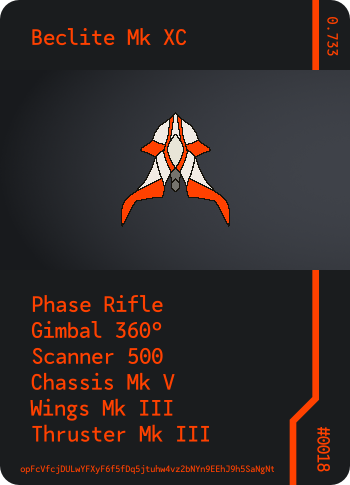
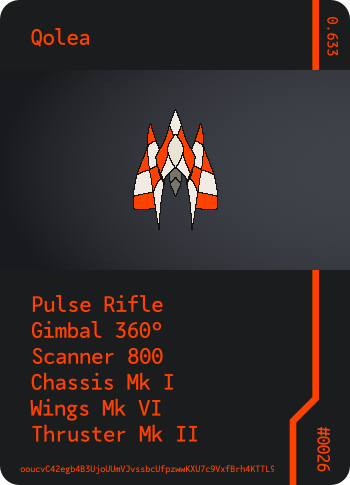
latest

diff --git a/index.js b/index.js
@@ -296,9 +296,7 @@ const makeTweet = (walletId, seed, squadron, edition) => {
     return `{link}\n\n${title}\n---\n${text}\n\n${tags}\n`;
 };
 
-async function generateAllSquadrons(seeds, name, statsOnly = false) {
-    const allDrones = [];
-    let allSquads = [];
+async function generateAllSquadrons(seeds) {
     const cardOutPath = path.join('out', 'cards');
     makeDir(cardOutPath);
     for(let i = 0; i < seeds.length; i++) {
@@ -309,53 +307,47 @@ async function generateAllSquadrons(seeds, name, statsOnly = false) {
         const dataPath = path.join(playerDronesPath, 'squadron.json');
         const colour = ~~(Math.random() * 6);
         const drones = generateDroneStats(colour);
-        if(!statsOnly) {
-            await generateDroneCards(cardOutPath, drones, seed, edition);
-            const cards = await generateThumb(cardOutPath, seed, colour, edition);
-            for(let j = 0; j < cards.length; j++) {
-                await generateUvMap(colour, cards[j], j);
-            }
+        await generateDroneCards(cardOutPath, drones, seed, edition);
+        const cards = await generateThumb(cardOutPath, seed, colour, edition);
+        for(let j = 0; j < cards.length; j++) {
+            await generateUvMap(colour, cards[j], j);
         }
         const squadron = createSquadronData(i, seed, drones, colour);
-        if(!statsOnly) {
-            fs.writeFileSync(dataPath, JSON.stringify(squadron));
-            fs.writeFileSync(path.join(finalPath, `${edition}_text_${seed}.txt`),
-                makeText(walletId, seed, squadron, edition));
-            fs.writeFileSync(path.join(finalPath, `${edition}_tweet_${seed}.txt`),
-                makeTweet(walletId, seed, squadron, edition));
-            fs.writeFileSync(path.join(finalPath, `${edition}_discord_${seed}.txt`),
-                makeDiscord(walletId, seed, squadron, edition));
-        }
-
-        allDrones.push(...squadron.drones);
-        allSquads.push(squadron);
+        fs.writeFileSync(dataPath, JSON.stringify(squadron));
+        fs.writeFileSync(path.join(finalPath, `${edition}_text_${seed}.txt`),
+            makeText(walletId, seed, squadron, edition));
+        fs.writeFileSync(path.join(finalPath, `${edition}_tweet_${seed}.txt`),
+            makeTweet(walletId, seed, squadron, edition));
+        fs.writeFileSync(path.join(finalPath, `${edition}_discord_${seed}.txt`),
+            makeDiscord(walletId, seed, squadron, edition));
 
         await copySrc(seed, edition);
     }
-    if(statsOnly) {
-        await new ObjectsToCsv(allDrones).toDisk(path.join(csvPath, `drones.csv`), {append: false});
-        await new ObjectsToCsv(allSquads).toDisk(path.join(csvPath, `squads.csv`), {append: false});
-    }
-    fs.writeFileSync(path.join(playerDronesPath, `${name}-queue.js`),
-        `const ${name}Queue = ${JSON.stringify(allSquads
-            .sort((a, b) => a.value - b.value)
-            .map(s => ({id: s.id, seed: s.seed, value: s.value, leader: s.leader})),
-        )};
-    export default ${name}Queue;`);
+    // fs.writeFileSync(path.join(playerDronesPath, `${name}-queue.js`),
+    //     `const ${name}Queue = ${JSON.stringify(allSquads
+    //         .sort((a, b) => a.value - b.value)
+    //         .map(s => ({id: s.id, seed: s.seed, value: s.value, leader: s.leader})),
+    //     )};
+    // export default ${name}Queue;`);
 }
 
-const testSeeds = [
-    // 'onqJ6Pvfz8E4EmTqduZpZfkHaJiLgh1p6cPZjFrTHXekPDhYRJY',
-    // 'onzFv4cfbhxoPTyjuoDpFNDntMMyR9ThS3M6sfqKN2juA9PydVo',
-    // 'oof5rYYLysjmJMsJzzXzgfkezbmuUEKbyVPqw1G1vTB3ruM6Dtt',
-    // 'oovWusjQiHBKkhxGs7UWN1Zn5W4NEe3aouSMTAWmrg2QAtE9BKA',
-    // 'opKR1NhYtnJisgKtKbdAMdP2WT2Gx2rTq6AHGRZ2gRvnbvjkbBh',
-    // 'onu23dvFM5yaYfi58W6aEvdkSazSx25dDifJVznayT5dPv1CnMp',
-    // 'ooxWRw7uFkitKGCAyxThN6suLPKCv2jWsfEKghQa2ZiHLR7eyb4',
-    // 'opX4ZYt4Ve858M1mQoaFT647SRSJqj2MJ2GsPMn7yiXKfd172GV',
-    // 'ooD3c2Xg2dZxwyqbNwQRuaA6u5eGzZsysPw18oAiwGZ5GqEjAYe',
-    // 'oo4BdW1hAcN9TNcM2fAo3EsB6km7tLF58NVibKQGYGQrwduphfj',
-];
+async function generateStats(seeds) {
+    const allDrones = [];
+    let allSquads = [];
+    const cardOutPath = path.join('out', 'cards');
+    makeDir(cardOutPath);
+    for(let i = 0; i < seeds.length; i++) {
+        const seed = seeds[i].seed;
+        seedrandom(seed, {global: true});
+        const colour = ~~(Math.random() * 6);
+        const drones = generateDroneStats(colour);
+        const squadron = createSquadronData(i, seed, drones, colour);
+        allDrones.push(...squadron.drones);
+        allSquads.push(squadron);
+    }
+        await new ObjectsToCsv(allDrones).toDisk(path.join(csvPath, `drones.csv`), {append: false});
+        await new ObjectsToCsv(allSquads).toDisk(path.join(csvPath, `squads.csv`), {append: false});
+}
 
 const allSeeds = [
     {
@@ -448,15 +440,59 @@ const allSeeds = [
         walletId: 'tz1PB9bzCecPNF9Tp6Gy6KunwxxFA7wqJ4E6',
         edition: 18,
     },
+    {
+        seed: 'onoYGs95ASAShzKK4Gg2fr2RZrton1dU2a1qHB84ajwXGCX1tEP',
+        walletId: 'tz1Vkoqo2ZQsVXBniYJDfX6F2NMfH5RoEuGn',
+        edition: 19
+    },
+    {
+        seed: 'onnuFbYfVE8V8rrpJA6dsnNVNx5khtpGSH9AG65PZJQELa1HSKY',
+        walletId: 'tz1PXmUnJDh9zPKQxZLtSZ11DZbPki6XmWfP',
+        edition: 20
+    },
+    {
+        seed: 'ooBfZ7jw2GBy9tLn7LgJSR4aDJzBK6gRSD1TFm7uSaB3HzfT6ck',
+        walletId: 'tz1d4zP1ZbzvXo9nzGVADieAYRyTLJzFvPvW',
+        edition: 21
+    },
+    {
+        seed: 'onkaoQYDQbCTyXsPZn6inqEvuG9CGCkgcpRTPXmzEsTT7KzgUdZ',
+        walletId: 'tz1WRVgKHfkZvuEymYgHTFZ9ck5wNBQ4GQzC',
+        edition: 22
+    },
+    {
+        seed: 'oo1xZYiujpCp11QpiTeoP9u1qmNesJEkSsQrDu6QWKe4n4GJDQh',
+        walletId: 'tz1TVa5tuFYt1wnUL2EZoZ5qknWLPhYrrGMa',
+        edition: 23
+    },
+    {
+        seed: 'opCYMAzpWkYsNCzGHeDfSRzeyyctFNCqNzTUkJiLEtNGqyJHgdH',
+        walletId: 'tz1KmM4DjPbXUG7FkZDsLFLeK5kHUKUNrto3',
+        edition: 24
+    },
+    {
+        seed: 'op7i9ffN57Y73WpbpsoFUkNYn9V95VQCBd3WL76gxREArAnhFfH',
+        walletId: 'tz1TtUyR5URy2rGZS9pV8JT8TuhixiEPf3xF',
+        edition: 25
+    },
+    {
+        seed: 'ooucvC42egb4B3UjoUUmVJvssbcUfpzwwKXU7c9VxfBrh4KTTL9',
+        walletId: 'tz1d4zP1ZbzvXo9nzGVADieAYRyTLJzFvPvW',
+        edition: 26
+    },
 ];
 
-const currentSeeds = [];
+const currentSeeds = [
+
+];
 
 const distPath = 'dist';
 makeDir(distPath);
 
-await generateAllSquadrons(currentSeeds, 'player', false);
+await generateAllSquadrons(currentSeeds);
 // Note: Stats Only
-// await generateAllSquadrons(allSeeds, 'player', true);
+await generateStats(allSeeds);
 // Note: Enemies
 // await generateAllSquadrons(new Array(100).fill().map(() => uuidv4()), path.join(distPath, 'enemy-drones'), 'enemy');
+// Note: Test Only
+// await generateAllSquadrons(testSeeds, 'player');

diff --git a/src/data/player-drones/player-queue.js b/src/data/player-drones/player-queue.js
@@ -1,2 +1,2 @@
-const playerQueue = [{"id":0,"seed":"opFcVfcjDULwYFXyF6f5fDq5jtuhw4vz2bNYn9EEhJ9h5SaNgNt","value":"0.870","leader":"Wonus"}];
+const playerQueue = [{"id":4,"seed":"opaWJPFcyqQUpk2JdUaG3ry8C5gkJHMo97PSS6tZFk9Skrcidfg","value":"0.604","leader":"Cotania"},{"id":5,"seed":"oobGxJDksDQZqGkcHcVRajzmAu8DDoEix7i2fXBchdAAh5XAdsp","value":"0.648","leader":"Sophus"},{"id":3,"seed":"oneZnunCguSKwZMeN7TKmvsxQ1ZzyeHojuiQsSJycFnfEkrWbuj","value":"0.650","leader":"Pecury"},{"id":8,"seed":"oo3o7GRmekzo153w2zLN9TyMZsTUJEiBrwkKuNE2em85f6unFEP","value":"0.660","leader":"Relia v12.42"},{"id":2,"seed":"opW8eZwer244UHaYBtPNEWz6LLNfrpyjZNcu9GTJMHuHqEb7SL1","value":"0.675","leader":"Tubos"},{"id":6,"seed":"opCby8nsd2jxF3SFrjVMUfdenNMP3dVEF1mvLvi3rCr5saUErNp","value":"0.675","leader":"Nostea"},{"id":10,"seed":"oomLi3xMVkV3ZpZBQHwoK1yN2ayBuRpQRsLU7Y98sXukQ89QKD6","value":"0.676","leader":"Wuwei v12.30"},{"id":15,"seed":"onhzEL2sG9hWM5y1YhMQroSicBWiMSqFsD76MtTRiqeq283JyLZ","value":"0.682","leader":"Purilia Mk XXXV"},{"id":9,"seed":"onzFVkvDf5feHKrvY1fwga3vr9YTAcUdb2aJYwuHfuGCRnZiRBH","value":"0.694","leader":"Xocury"},{"id":11,"seed":"op7CfeSWtZvHut2H33D18TRkxJXywSiGRYPeHBUTc8pwoJUpipM","value":"0.720","leader":"Yutera Mk LXXXIV"},{"id":1,"seed":"ooa8PHz6zA8toZ4FBac7H972oupjbSpq8SQGFTaMuDL3dXQb2q7","value":"0.724","leader":"Nonia"},{"id":7,"seed":"opD9PnSLY9b5Eqe1r5cNAFVGA3Xt1FXviQArnZ3Z7AzN9qdrFoV","value":"0.725","leader":"Tepra"},{"id":12,"seed":"onktvWNLMWiTYsDtAze9z2NzGoTRuu98homJGvLgceygE14TLqG","value":"0.729","leader":"Tewei v11.69"},{"id":13,"seed":"ooE6Te1Cuh9Q9NPv4W5aJURRcWoNYjf9JUNDvVKLw8s8nJRakoK","value":"0.729","leader":"Qewei Mk XCV"},{"id":14,"seed":"ooE6Te1Cuh9Q9NPv4W5aJURRcWoNYjf9JUNDvVKLw8s8nJRakoK_2","value":"0.745","leader":"Honov"},{"id":16,"seed":"oowZsif3iKoLjRrrcBRShhbb7YusonukjSKA3n5EMaJNrrVSc2v","value":"0.791","leader":"Buwei"},{"id":18,"seed":"onoYGs95ASAShzKK4Gg2fr2RZrton1dU2a1qHB84ajwXGCX1tEP","value":"0.805","leader":"Iavis v40.72"},{"id":0,"seed":"ooU8CrAGL3ASBUMaAhfB3R9a5T3m4V6TEVVDzmiYoMmCGXwvhJo","value":"0.827","leader":"Gaphus"},{"id":17,"seed":"opFcVfcjDULwYFXyF6f5fDq5jtuhw4vz2bNYn9EEhJ9h5SaNgNt","value":"0.870","leader":"Wonus"}];
     export default playerQueue;
